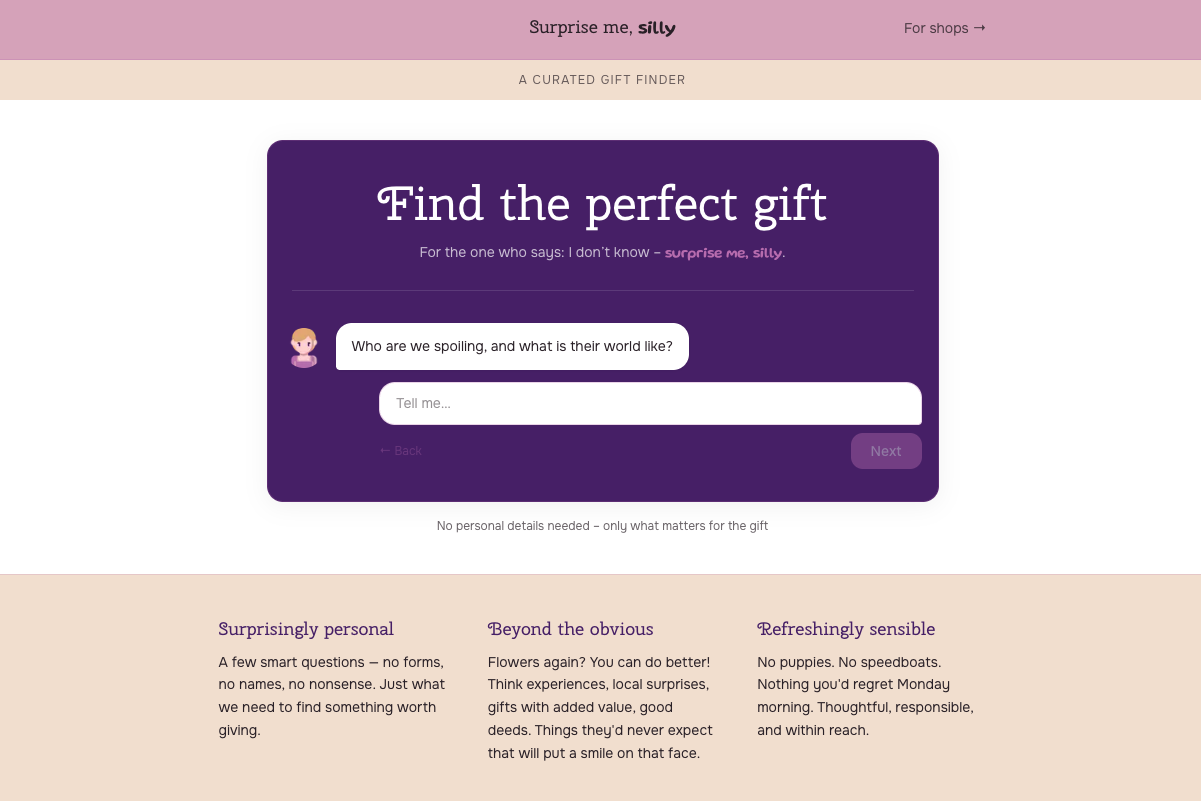
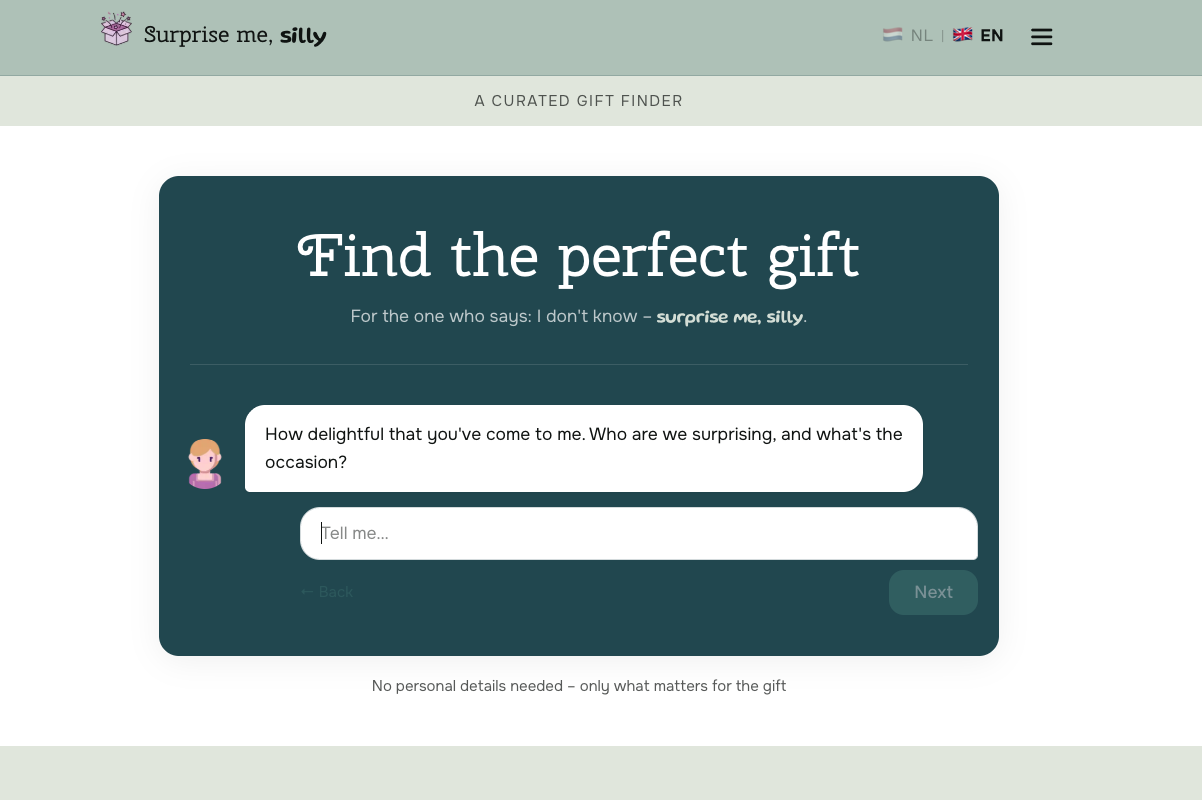
Refresh Surprise Me, Silly card for the new SMS brand
- Bg: indigo-velvet → deep-teal (#234f5a, current SMS primary)
- Title + border: cream (#e4e9e0)
- Body text + URL: sage (#b6c8bf)
- New screenshot reflecting the rebrand
- Underline URL labels on both cards

All pairs pass WCAG AA (5.14 and 7.29).

diff --git a/src/components/ConversationDesign.jsx b/src/components/ConversationDesign.jsx
@@ -19,9 +19,9 @@ const projects = [
     ],
     url: 'https://surprisemesilly.nl/',
     displayUrl: 'surprisemesilly.nl',
-    bg: '#502274',
-    ink: '#f3e3d2',
-    accent: '#dbadc1',
+    bg: '#234f5a',
+    ink: '#e4e9e0',
+    accent: '#b6c8bf',
     titleFont: "'Cherry Swash', Georgia, serif",
     Logo: () => <img src="/surprise-box.png" alt="Surprise Me, Silly gift box" className="h-14 w-auto" style={{ transform: 'translateY(-5px)' }} />,
     screenshot: '/screenshot-sms.png',
@@ -92,7 +92,7 @@ export default function ConversationDesign() {
                   className="w-full h-auto block group-hover:scale-[1.02] transition-transform duration-500" />
               </div>
 
-              <div className="text-center text-xs mt-3 tracking-wide" style={{ color: project.accent, opacity: 0.85 }}>
+              <div className="text-center text-xs mt-3 tracking-wide underline underline-offset-2" style={{ color: project.accent, opacity: 0.85 }}>
                 {project.displayUrl}
               </div>
             </motion.a>
